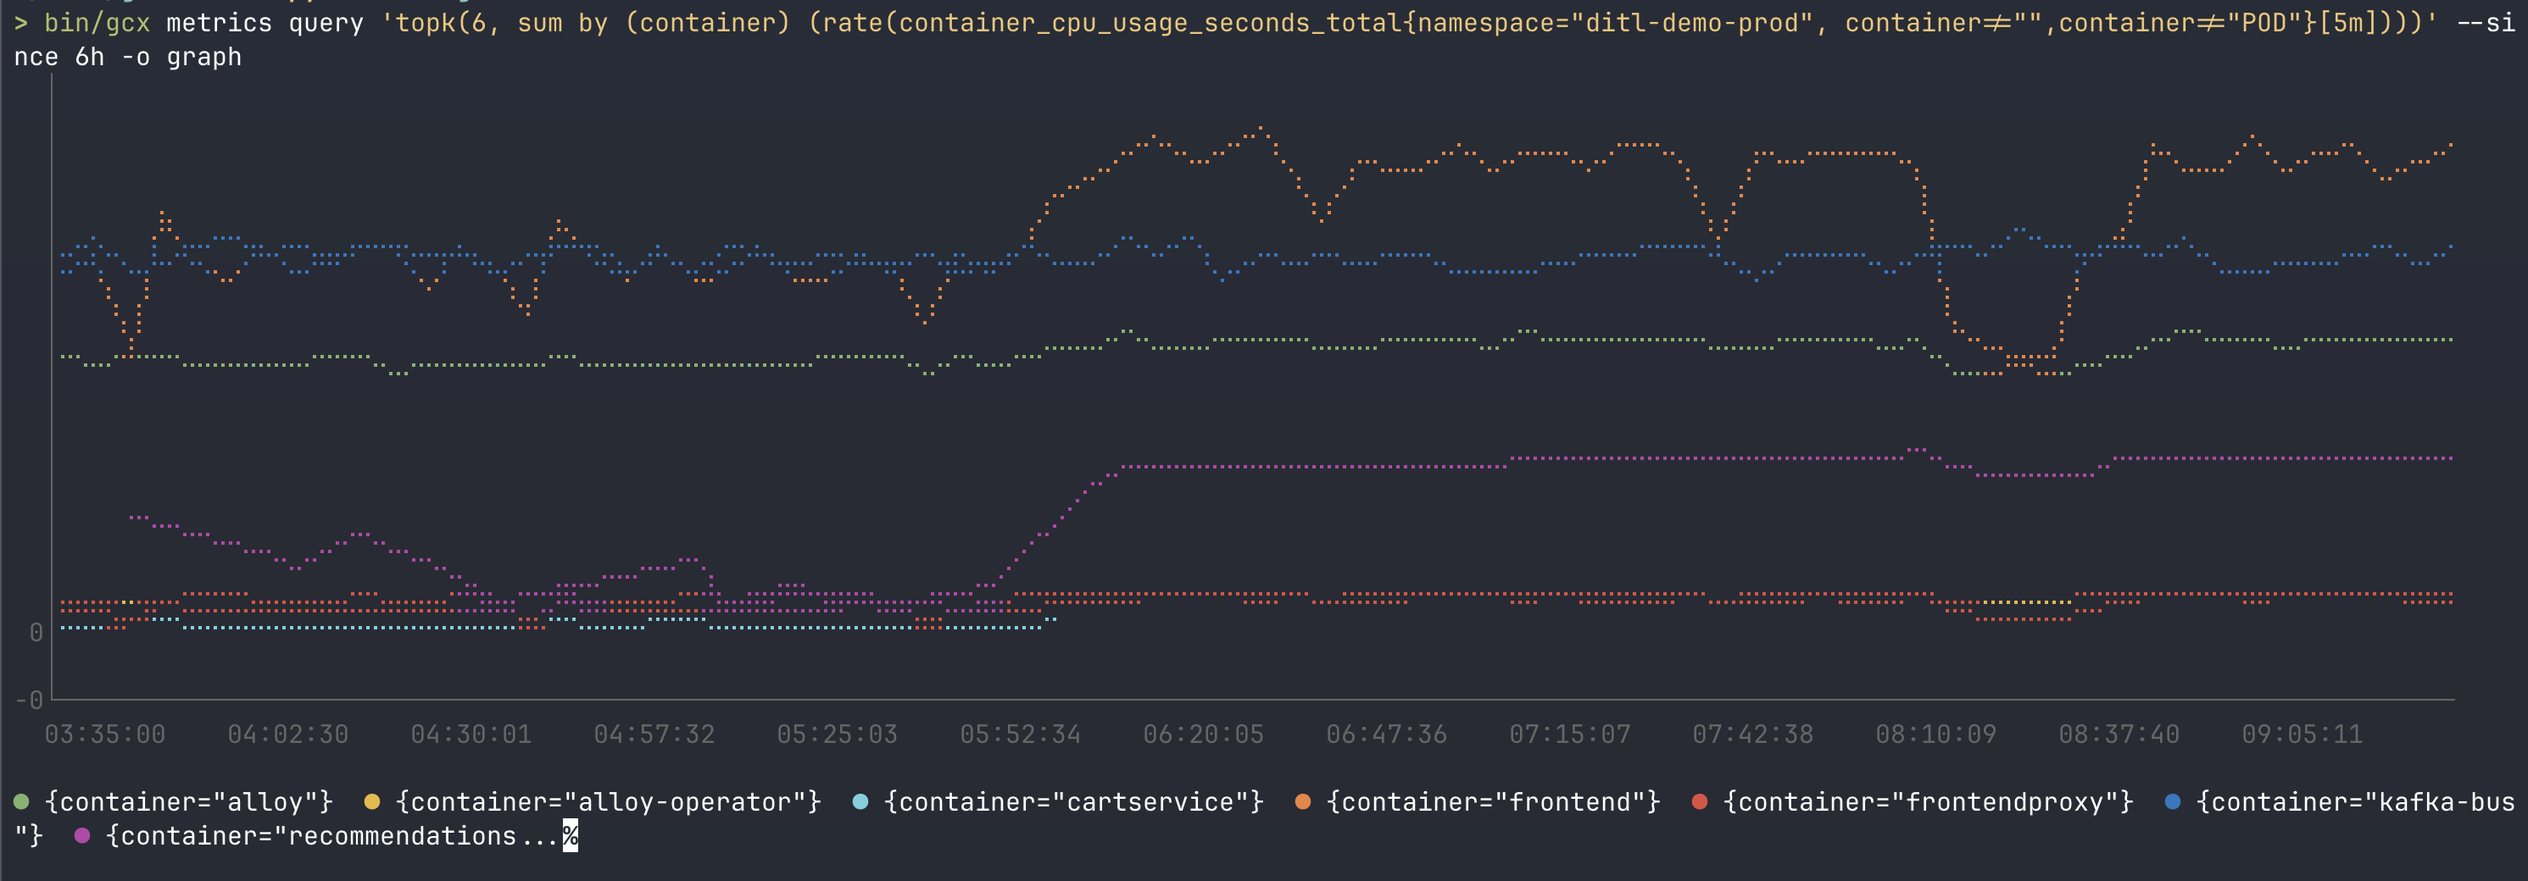
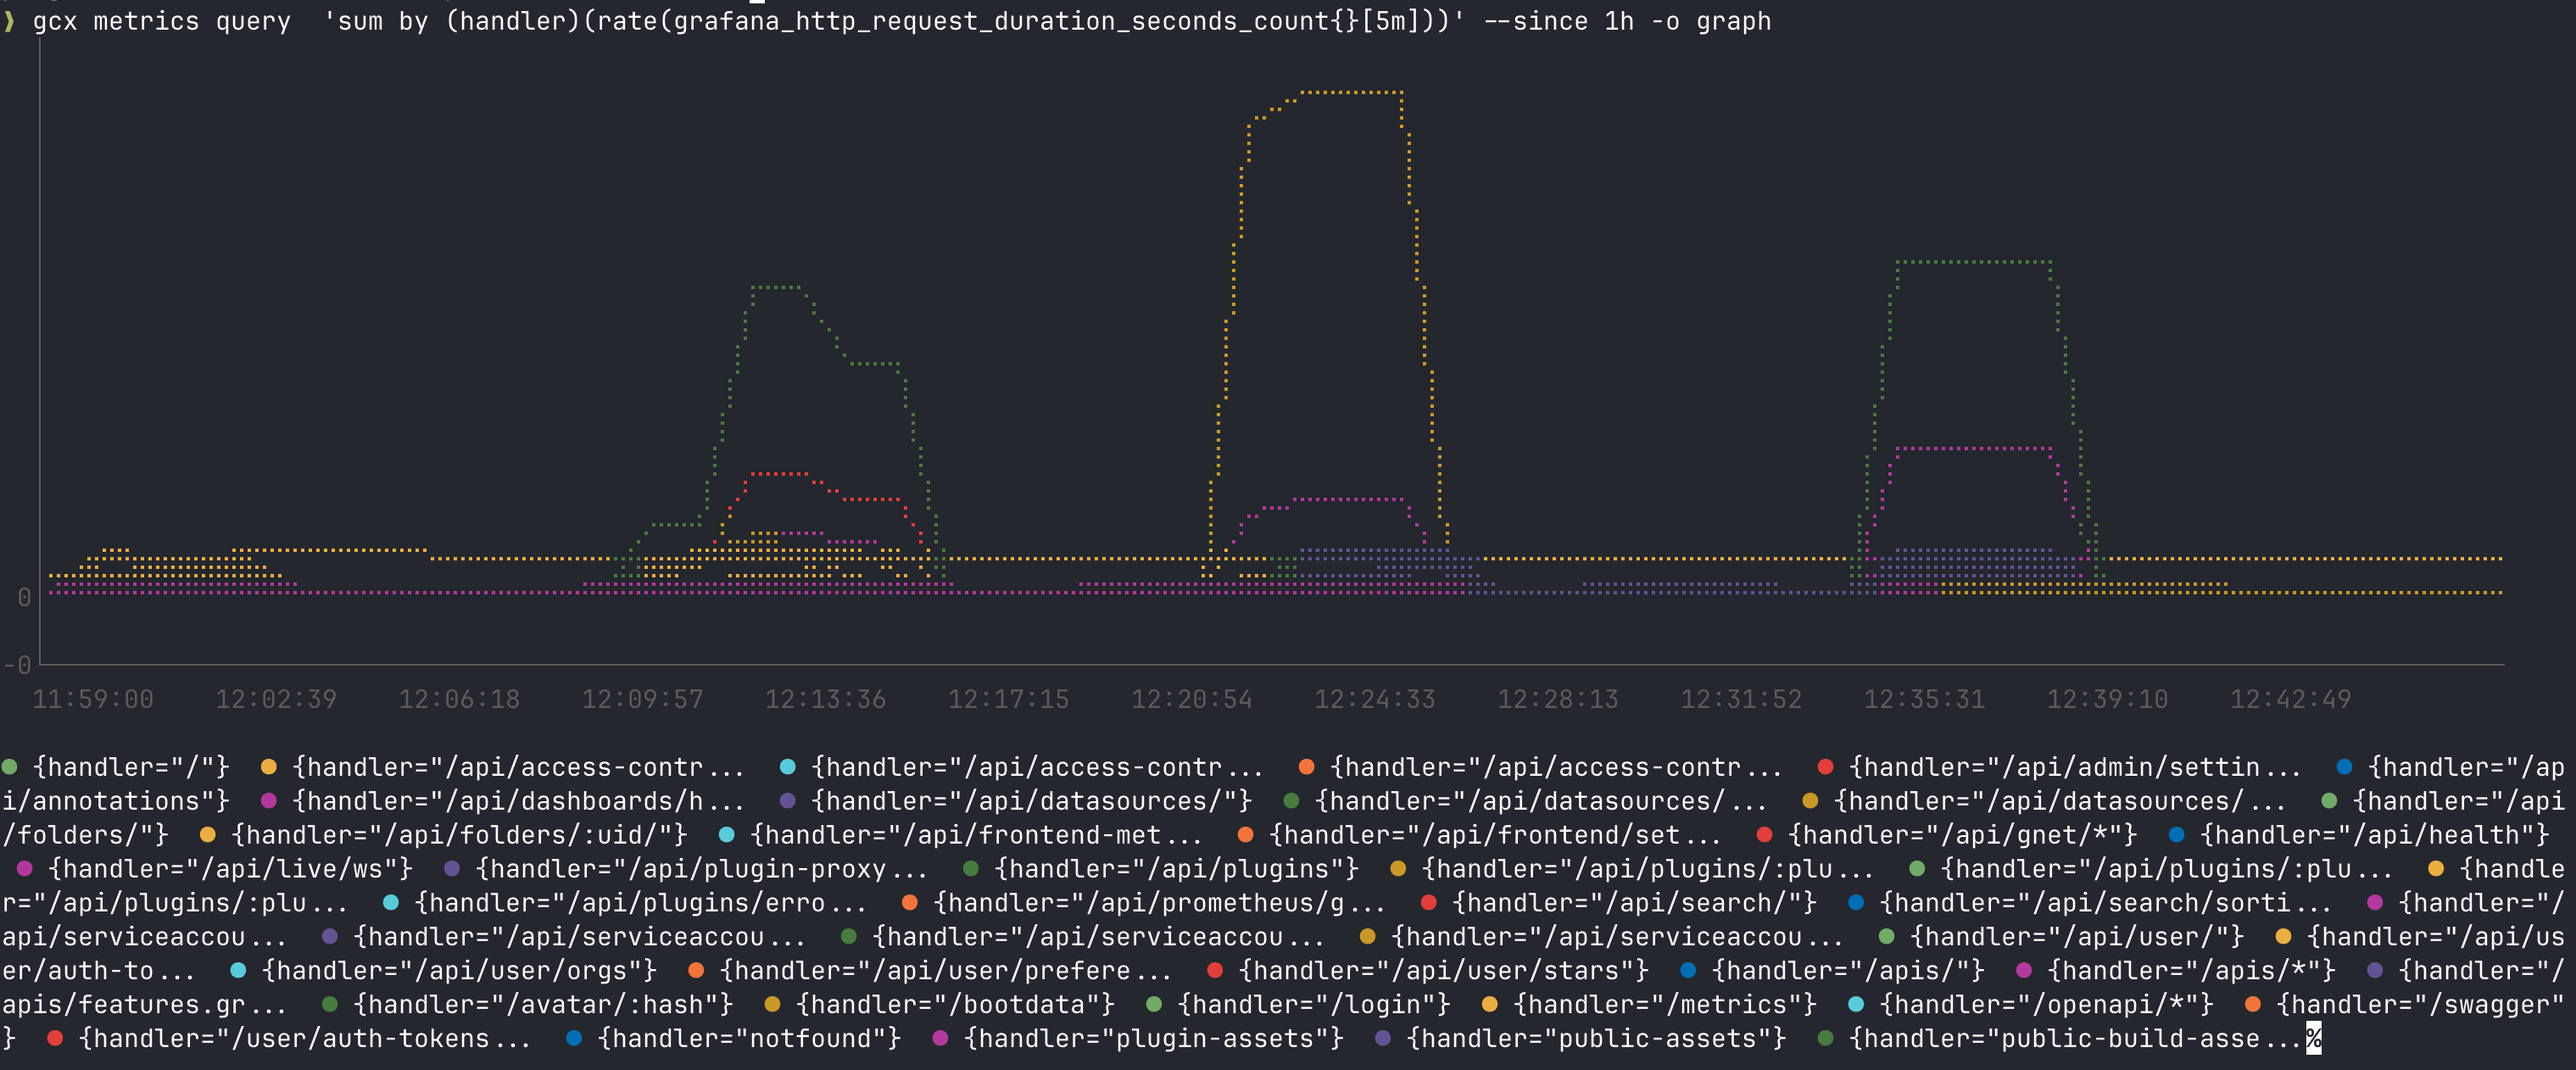
add a actually-quick quick-start, add some clarifications to the README based on community feedback

diff --git a/internal/style/banner.go b/internal/style/banner.go
@@ -29,7 +29,7 @@ func RenderLogo() string {
 		lines = append(lines, Gradient(line, GradientAccentFrom, GradientBrandTo))
 	}
 
-	subtitle := lipgloss.NewStyle().Foreground(ColorMuted).Render("  Grafana Cloud CLI")
+	subtitle := lipgloss.NewStyle().Foreground(ColorMuted).Render("  Grafana CLI")
 
 	return strings.Join(lines, "\n") + "\n" + subtitle + "\n"
 }

diff --git a/README.md b/README.md
@@ -1,4 +1,4 @@
-# gcx — Grafana Cloud CLI
+# gcx — Grafana CLI
 
 <p>
 <a href="https://github.com/grafana/gcx/actions/workflows/ci.yaml"><img src="https://github.com/grafana/gcx/actions/workflows/ci.yaml/badge.svg?branch=main" alt="CI"></a>
@@ -9,27 +9,41 @@
 
 ![gcx](./gcx.png)
 
-Grafana Cloud and the Grafana Assistant — in your terminal and your agentic coding environment.
+Grafana — in your terminal and your agentic coding environment. gcx works with **Grafana Cloud, Enterprise, and OSS** (Grafana 12+). See the [compatibility matrix](#compatibility) for details.
 
 Query production. Investigate alerts. Let the Assistant root-cause issues. Ship fixes with observability built in. Without leaving your editor.
 
 *"Don't guess. Check the actual production data."*
 
-## Why gcx
+## What is gcx?
 
-GCX brings the full power of Grafana Cloud and Grafana Assistant to your command line. It bridges the gap between your local environment and key observability insights from Grafana Cloud.
+gcx is a CLI for Grafana. It gives you and your AI coding agent structured access to your Grafana instance: dashboards, alerts, SLOs, metrics, logs, traces, and more.
 
-Since the end of 2025, adoption of agentic coding tools like Cursor and Claude Code have exploded. You are coding faster than ever before. Your agents see your code — but they are blind to your production environment. They don't see the latency spikes, the server load, or whether you're actually hitting your SLOs. They write code based on what could happen, not what is actually happening. This is a dangerous gap.
+gcx works with any agentic coding tool. It ships with a suite of agent skills for common workflows like alert investigation, dashboard GitOps, SLO management, and observability setup - ready to use out of the box.
 
-We built GCX to close that gap.
-
-> [!NOTE]
-> gcx supports Grafana Cloud, Enterprise, and OSS, see the [compatibility matrix](#compatibility) for details on what is and isn't supported across different Grafana products.
-> **Grafana 12 or above is required.** Older Grafana versions are not supported.
+> [!WARNING]
+> **Public preview** — gcx is under active development. Bugs are handled by Engineering; on-call support and SLAs are not available. See [release life cycle](https://grafana.com/docs/release-life-cycle/).
 
 ## Quick Start
 
-### 1. Install
+```sh
+# For Grafana Cloud instances
+gcx login prod --server https://<your-cloud-instance>.grafana.net  # select oauth, then press Enter to skip cloud token selection
+
+# For self-hosted Grafana instances
+gcx login local --server http://localhost:3000 --token <token>
+
+# check your grafana cloud metrics usage in the last day
+gcx metrics query -d grafanacloud-usage 'grafanacloud_org_metrics_billable_series'  --since 24h  --step 1h
+
+# check how busy your API routes are
+gcx metrics query 'sum by (handler)(rate(grafana_http_request_duration_seconds_count[5m]))' --since 1h
+
+# list all your dashboards
+gcx resources get dashboards
+```
+
+## Installation
 
 **Quick install (Linux/macOS):**
 
@@ -88,7 +102,7 @@ gcx completion fish > ~/.config/fish/completions/gcx.fish  # fish
 **Verify:** `gcx --version`
 
 
-### 2. Authenticate
+## Authentication
 
 `gcx login` creates or re-authenticates a context. It auto-detects whether the server is Grafana Cloud (`*.grafana.net`) or on-premises and adjusts the prompt accordingly. Pick the path below that matches your setup.
 
@@ -147,44 +161,63 @@ Env vars resolve at every command invocation, so you can run `gcx` commands dire
 
 See the [login reference](docs/reference/login.md) for the full guide, including re-authentication, environment-variable setup, and troubleshooting for common errors.
 
-### 3. See It in Action
+## See It in Action
+
 
 **Query production from your terminal:**
 
 ```sh
-$ gcx metrics query 'rate(http_requests_total{service="checkout"}[5m])' --since 1h
-SERVICE     TIMESTAMP             VALUE
-checkout    2026-04-15 09:00:00   142.3
-checkout    2026-04-15 09:05:00   151.7
-checkout    2026-04-15 09:10:00   289.4
-checkout    2026-04-15 09:15:00   312.1
+$ gcx metrics query 'sum by (instance)(rate(grafana_http_request_duration_seconds_count[5m]))' --since 1h
+┌───────────────────────────────────────────┬───────────────────────────────────────────┬───────────────────────────────────────────┐
+│ INSTANCE                                  │ TIMESTAMP                                 │ VALUE                                     │
+├───────────────────────────────────────────┼───────────────────────────────────────────┼───────────────────────────────────────────┤
+│ localhost:3000                            │ 2026-04-28T11:59:00+01:00                 │ 0.0073020555555555556                     │
+│ localhost:3000                            │ 2026-04-28T12:00:00+01:00                 │ 0.11167158333333332                       │
+│ localhost:3000                            │ 2026-04-28T12:01:00+01:00                 │ 0.1024372962962963                        │
+│ localhost:3000                            │ 2026-04-28T12:02:00+01:00                 │ 0.09583333333333333                       │
+...
 ```
 
 **Check what's firing:**
 
 ```sh
 $ gcx alert rules list --state firing
-UID     NAME                            STATE    HEALTH   PAUSED
-abc1    Checkout P95 > SLO threshold    firing   ok       no
-def2    Disk usage > 85%                firing   ok       no
+┌──────────────────────────────────────┬─────────────────────────────────────────────────────────────────────┬──────────┬──────────┬──────────┐
+│ UID                                  │ NAME                                                                │ STATE    │ HEALTH   │ PAUSED   │
+├──────────────────────────────────────┼─────────────────────────────────────────────────────────────────────┼──────────┼──────────┼──────────┤
+│ e62566b8-da2d-45e0-853a-40abebc9f863 │ adaptive_traces_forecast_gme_distributor_alert                      │ firing   │ ok       │ no       │
+│ cfhcfnhd8xam9a                       │ GraphiteProxy: Reads (dev) Native - Error Budget Burn Rate is High  │ firing   │ ok       │ no       │
+│ affq1sffre0apd                       │ Unified Storage: HIGH_SLOW Latency - Error Budget Burn Rate is High │ firing   │ ok       │ no       │
+│ 16ddf4b0-7d8c-5dad-a71a-81f87a1e47a2 │ BillingSeriesAbsent                                                 │ firing   │ ok       │ no       │
+│ 09d44d08-b4cc-5d0e-8544-514e380f6bb3 │ k6CloudSecretsUsageReportingNoData                                  │ firing   │ ok       │ no       │
+│ eb62d01f-5f73-543b-947b-2c849890d5f6 │ MissingBackups                                                      │ firing   │ ok       │ no       │
+│ 5f9e01d4-0b2d-5b51-a787-26535ded4719 │ MissingBackups                                                      │ firing   │ ok       │ no       │
+│ e4646576-9c07-5dfd-b22c-1e5b4da761ef │ MissingBackups                                                      │ firing   │ ok       │ no       │
+│ b89d5170-d0bd-5869-ad22-7a0a944b3aae │ MissingBackups                                                      │ firing   │ ok       │ no       │
 ```
 
 **Review SLO status:**
 
 ```sh
 $ gcx slo definitions list
-UUID    NAME                        TARGET   WINDOW   STATUS
-uid1    Checkout Availability       99.90%   30d      ok
-uid2    API Latency P99 < 200ms     99.50%   30d      at_risk
-uid3    Payment Processing          99.95%   30d      breaching
+┌───────────────────────┬───────────────────────────────────────────────────────┬─────────────┬────────────┬────────────┐
+│ UUID                  │ NAME                                                  │ TARGET      │ WINDOW     │ STATUS     │
+├───────────────────────┼───────────────────────────────────────────────────────┼─────────────┼────────────┼────────────┤
+│ y5yc8cy86yqtmey930foh │ CB additional identifier                              │ 90.00%      │ 28d        │ created    │
+│ sgz23sbv2c19v0r32s8y1 │ Checkout App - p95 Latency                            │ 99.50%      │ 28d        │ updated    │
+│ nwd4dk7j38spanror727k │ GraphiteProxy: Reads (dev) Native                     │ 99.50%      │ 28d        │ created    │
+│ e1cteeyl2ukmilw1tqugw │ KG fusion test grafana-slo-app                        │ 99.50%      │ 28d        │ created    │
+│ bwyf5d8g1614ugri7u0w7 │ KG fusion test grafana-slo-stats-service              │ 99.50%      │ 28d        │ created    │
+│ tfkp5e0ronnl1ywpbv9b5 │ OTLPGateway: MetricWrites (dev) - Mimir               │ 99.90%      │ 28d        │ created    │
+│ wvgxovr2k60efxizv1y9f │ Unified Storage: HIGH_SLOW Latency                    │ 99.50%      │ 28d        │ updated    │
+└───────────────────────┴───────────────────────────────────────────────────────┴─────────────┴────────────┴────────────┘
 ```
 
 **Visualize metrics directly in your terminal:**
 
 ```sh
-$ gcx metrics query 'topk(6, sum by (container) (rate(container_cpu_usage_seconds_total{namespace="ditl-demo-prod", container!="", container!="POD"}[5m])))' --since 6h -o graph
+$ gcx metrics query  'sum by (handler)(rate(grafana_http_request_duration_seconds_count{}[5m]))' --since 1h -o graph
 ```
-
 ![Terminal graph output](./graph_example.png)
 
 **Explore more**
@@ -206,7 +239,7 @@ gcx logs query '{app="nginx"} |= "error"' --since 1h
 gcx traces query '{.cluster="dev-us-central-0"}' --since 1h
 ```
 
-### 4. Install Agent Skills
+## Install Agent Skills
 
 gcx ships a portable Agent Skills bundle for setup, dashboard GitOps,
 datasource exploration, alert investigation, structured debugging, SLO
@@ -255,7 +288,7 @@ Here's what it looks like when your coding agent has access to production:
 
 **5. It ships** — Opens a PR, tests pass, deploys to production. The alert resolves.
 
-Investigation, fix, instrumentation, monitoring — without the developer ever leaving their editor. The Grafana Assistant provides the intelligence; gcx provides the interface. And because it all builds on everything you've already configured in Grafana Cloud — your dashboards, your alerts, your datasources — no other tool can give you this depth out of the box.
+Investigation, fix, instrumentation, monitoring — without the developer ever leaving their editor. The Grafana Assistant provides the intelligence; gcx provides the interface. And because it all builds on everything you've already configured in Grafana — your dashboards, your alerts, your datasources — no other tool can give you this depth out of the box.
 
 ```sh
 $ gcx assistant investigations list
@@ -264,29 +297,35 @@ abc1  Checkout P95 latency breach               active     2m ago
 def2  Memory leak in payment-svc                resolved   1h ago
 ```
 
+### Beyond alert investigation
+
+The agentic workflow above is one example. gcx supports a wide range of workflows:
+
+- **Resource GitOps** — Pull resources to local files, let your agent edit them, push back to Grafana (`gcx resources pull` / `gcx resources push`)
+- **Explore your data** — Discover datasources, metrics, labels, and log streams before writing queries (`gcx datasources list`, `gcx metrics labels`)
+- **SLO management** — Create, monitor, and investigate SLOs from your terminal (`gcx slo definitions list`, `gcx slo reports list`)
+- **Onboarding & setup** — Instrument a Kubernetes cluster and configure Grafana Cloud products (`gcx setup instrumentation`)
+- **Observability as Code** — Scaffold a project, import existing dashboards as Go code, lint, and deploy (`gcx dev scaffold`, `gcx dev import`)
+
 ## Compatibility
 
 gcx works across Grafana's product offerings. Feature availability depends on your deployment:
 
-| Feature | OSS (12+) | Enterprise (12+) | Cloud | BYOC |
-|---------|:---------:|:----------------:|:-----:|:----:|
-| Resource management (dashboards, folders) | ✓ | ✓ | ✓ | ✓ |
-| Alert rules | ✓ | ✓ | ✓ | ✓ |
-| Raw API passthrough (`gcx api`) | ✓ | ✓ | ✓ | ✓ |
-| Observability as Code (`gcx dev`) | ✓ | ✓ | ✓ | ✓ |
-| Signal queries (metrics, logs, traces, profiles) | ✓ † | ✓ † | ✓ | ✓ |
-| SLO, Synthetic Monitoring, IRM, k6, Fleet, etc. | ✗ | ✗ | ✓ | ◐ |
-| Adaptive Metrics / Logs / Traces | ✗ | ✗ | ✓ | ◐ |
-| Grafana Assistant | ✗ | ✗ | ✓ | ✗ |
+| Feature | Commands | OSS (12+) | Enterprise (12+) | Cloud | BYOC |
+|---------|----------|:---------:|:----------------:|:-----:|:----:|
+| Resource management (dashboards, folders) | `resources` | ✓ | ✓ | ✓ | ✓ |
+| Alert rules | `alert` | ✓ | ✓ | ✓ | ✓ |
+| Raw API passthrough | `api` | ✓ | ✓ | ✓ | ✓ |
+| Observability as Code | `dev` | ✓ | ✓ | ✓ | ✓ |
+| Signal queries (metrics, logs, traces, profiles) | `metrics`, `logs`, `traces`, `profiles` | ✓ † | ✓ † | ✓ | ✓ |
+| SLO, Synthetic Monitoring, IRM, k6, Fleet, etc. | `slo`, `synth`, `irm`, `k6`, `fleet` | ✗ | ✗ | ✓ | ◐ |
+| Adaptive Metrics / Logs / Traces | `metrics adaptive`, `logs adaptive`, `traces adaptive` | ✗ | ✗ | ✓ | ◐ |
+| Grafana Assistant | `assistant` | ✗ | ✗ | ✓ | ✗ |
 
 **† Self-hosted signal queries** — `gcx metrics query`, `gcx logs query`, `gcx traces query`, and `gcx profiles query` work against self-hosted datasources (Prometheus, Loki, Tempo, Pyroscope), but datasource endpoints must be configured manually. For Grafana Cloud, endpoints are auto-discovered from your stack.
 
 **◐ BYOC** — Bring Your Own Cloud runs the Grafana stack on your own infrastructure while connecting to the Grafana Cloud control plane. Core Grafana features (dashboards, alerts, signal queries) work in full. Cloud product availability (SLO, Synthetic Monitoring, IRM, etc.) depends on which plugins are installed and configured in your BYOC stack.
 
-## Maturity
-
-> [!WARNING]
-> **Public preview** — gcx is under active development. Bugs are handled by Engineering; on-call support and SLAs are not available. See [release life cycle](https://grafana.com/docs/release-life-cycle/).
 
 ## Grafana Cloud Products
 
@@ -409,6 +448,8 @@ gcx resources push -p ./resources
 
 gcx push is idempotent — running it multiple times produces the same result. Folders are automatically pushed before dashboards to satisfy dependencies.
 
+> **gcx resources push/pull vs GitSync:** Grafana's [Git Sync](https://grafana.com/docs/grafana/latest/as-code/observability-as-code/git-sync/) provides bi-directional sync between a git repo and Grafana for dashboards. `gcx resources push/pull` enables users to create their own as-code resource synchronisation workflows. `gcx resources push/pull` also works with all resources available in `gcx resources get`, not just dashboards.
+
 ## CI/CD
 
 ```yaml
@@ -443,6 +484,7 @@ jobs:
 - `--dry-run` on `push` and `delete` to preview changes
 - `--on-error abort|fail|ignore` to control error behavior
 - `-o json` or `-o yaml` for machine-parseable output
+
 
 ## Documentation
 
